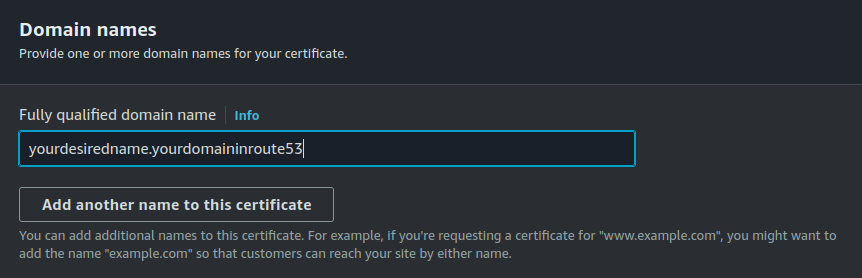
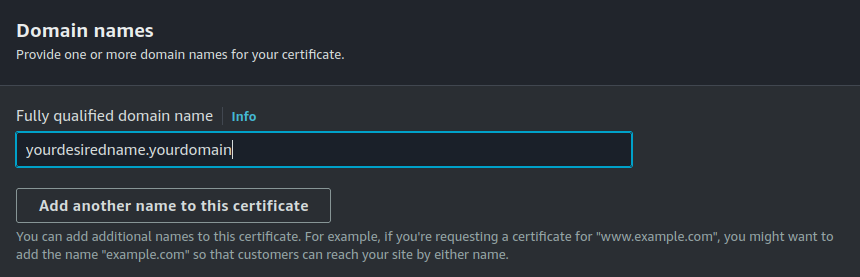
Changed route 53 denominations

diff --git a/docs/docs/self-hosting/how-to-guides/create-configure-AWS-certificate.md b/docs/docs/self-hosting/how-to-guides/create-configure-AWS-certificate.md
@@ -4,15 +4,15 @@ You will need this certificate to be able to deploy the High Availability deploy
 
 ## Prerequisites
 
-Is important to notice that in your AWS you will need to have acces to Route 53 and Certificate Manager.   
-You will need to have one Hosted Zone in Route 53 to be able to create the certificate.
+Is important to notice that in your AWS you will need to have access to the Certificate Manager. As well as having access to a domain provider.   
+You will need to have one domain to be able to create and vinculate the certificate.
 
 
 ## Creation
 
 === "AWS Certificate creation"
 
-    Those are the steps you need to follow to create the AWS certificate, keep in mind that you need a Hosted Zone.   
+    Those are the steps you need to follow to create the AWS certificate, keep in mind that you need a domain.   
     
     First go to AWS Certificate Manager and request a new public certificate. The following parameter is the most important.
     <figure markdown>
@@ -20,13 +20,19 @@ You will need to have one Hosted Zone in Route 53 to be able to create the certi
     <figcaption>Domain configuration</figcaption>
     </figure>
 
-    You need to replace **`yourdesiredname`** for whatever name you want and **`yourdomininroute53`** for the name of the domain that you have in Route 53.  
+    You need to replace **`yourdesiredname`** for whatever name you want and **`yourdomain`** for the name of the domain that you own.  
 
     Next leave the rest of the parameters as they are and click request.
 
 
 
-The next page will prompt out the certificate status, here you will need to create a record in Route 53 to validate the status, first you will have status pending.
+The next page will prompt out the certificate status, here you will need to create a record in your domain provider to validate the status, first you will have status pending.
+
+=== "Create record in your domain provider"
+
+    Here you will need to create a new CNAME record in the domain you own by using as subdomain the CNAME name until the domain name and the CNAME value as the value of that record.
+
+    In AWS Certificate Manager you can check the CNAME name and value clicking into the certificate you want.
 
 === "Create record in Route 53"
 
@@ -35,7 +41,7 @@ The next page will prompt out the certificate status, here you will need to crea
     <figcaption>Create record in Route 53</figcaption>
     </figure>
 
-    You need to click the button called Create records in Route 53. This will lead you to the next image where you just click Create records and that's it.
+    You need to click the button called **`Create records in Route 53`**. This will lead you to the next image where you just click Create records and that's it.
 
     <figure markdown>
     ![Create record page](../../../../assets/images/self-hosting/how-to-guides/create-configure-cert/create-record-page.png){ .png-img .dark-img }
@@ -45,6 +51,7 @@ The next page will prompt out the certificate status, here you will need to crea
     Please verify that you have a new entry in the records table of the specified Hosted Zone in Route 53 with the CNAME of the certificate you just created.   
     
     Try to refresh until you reach the Issued status in green.
+
 
 Finally when deploying the HA stack in CloudFormation follow these steps
 
@@ -58,7 +65,7 @@ Finally when deploying the HA stack in CloudFormation follow these steps
 
     Those are parameters related to the certificate you just created.    
 
-    You have to fill field **`DomainName`** with the domain name that appears in the certificate that you created, the one that matches yourdesiredname.yourdomininroute53 mentioned earlier.  
+    You have to fill field **`DomainName`** with the domain name that appears in the certificate that you created, the one that matches yourdesiredname.yourdomain mentioned earlier.  
 
     Next for the **`OpenViduCertificateARN`**, you can find it at the top of the same page I mentioned earlier, it is called **`ARN`**, as you can see in the image below.   
     
